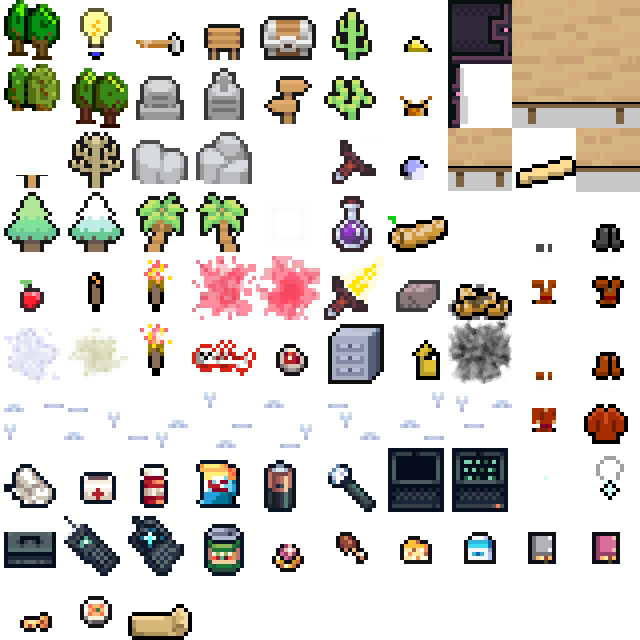
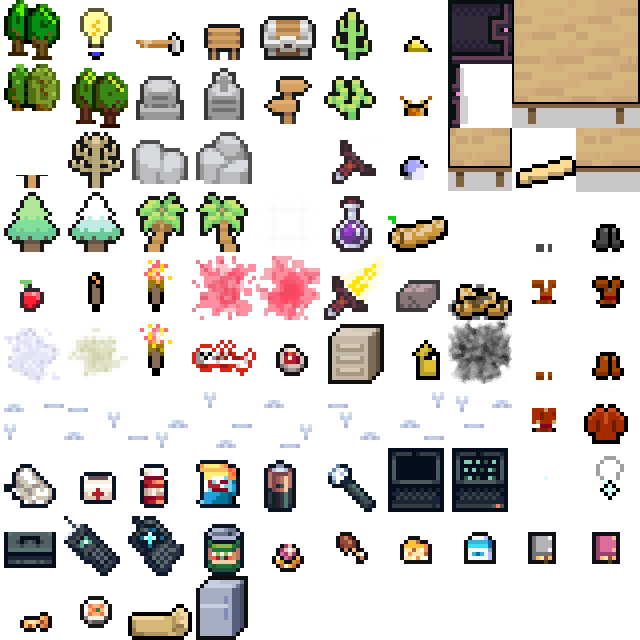
fridge

Changed region(s): [[0.2812, 0.875, 0.4062, 1.0], [0.5, 0.5, 0.5938, 0.5938]]

diff --git a/src/main/kotlin/world/cartos/LevelCarto.kt b/src/main/kotlin/world/cartos/LevelCarto.kt
@@ -5,6 +5,7 @@ import actors.Ratman
 import actors.Ratthing
 import things.CeilingLight
 import things.FilingCabinet
+import things.Fridge
 import util.*
 import world.Building
 import world.Chunk
@@ -40,8 +41,8 @@ class LevelCarto(
                 rooms.add(room)
                 carveRoom(room, nextRegion)
 
-                if (Dice.chance(0.3f)) {
-                    addThing(Dice.range(room.x0, room.x1), Dice.range(room.y0, room.y1), FilingCabinet())
+                if (Dice.chance(0.6f)) {
+                    addThing(Dice.range(room.x0, room.x1), Dice.range(room.y0, room.y1), if (Dice.flip()) FilingCabinet() else Fridge())
                 }
                 if (Dice.chance(0.7f)) {
                     Peeper().spawnAt(level, Dice.range(room.x0, room.x1), Dice.range(room.y0, room.y1))

diff --git a/src/main/kotlin/things/Container.kt b/src/main/kotlin/things/Container.kt
@@ -61,11 +61,19 @@ sealed class Container : Portable(), ThingHolder {
 
 @Serializable
 class FilingCabinet : Container() {
-
     override fun name() = "filing cabinet"
     override fun description() = "You don't know what files are, but you know they went in here."
     override fun glyph() = Glyph.FILING_CABINET
     override fun isPortable() = false
     override fun openVerb() = "open"
+}
 
+@Serializable
+class Fridge : Container() {
+    override fun name() = "fridge"
+    override fun description() = "A box chilled by technology to preserve foods.  Astounding."
+    override fun glyph() = Glyph.FRIDGE
+    override fun isPortable() = false
+    override fun openVerb() = "open"
+    fun isRefrigerating() = true  // TODO: invent electric power
 }

diff --git a/src/main/kotlin/actors/Actor.kt b/src/main/kotlin/actors/Actor.kt
@@ -387,7 +387,7 @@ sealed class Actor : Entity, ThingHolder, LightSource, Temporal {
         if (hp < hpMax) {
             if (!hasStatus(Status.Tag.STARVING)) {
                 if (Dice.chance(0.3f)) {
-                    var healmax = 5 + if (hasStatus(Status.Tag.HUNGRY)) -1 else 0
+                    var healmax = 5 + if (hasStatus(Status.Tag.HUNGRY)) -2 else if (hasStatus(Status.Tag.SATIATED)) 1 else 0
                     healmax += (statuses.firstOrNull { it.tag == Status.Tag.BANDAGED } as Bandaged?)?.quality?.toInt() ?: -3
                     val heal = Dice.range(0, Math.max(1, healmax))
                     healDamage(heal.toFloat())

diff --git a/src/main/kotlin/util/extensions.kt b/src/main/kotlin/util/extensions.kt
@@ -250,7 +250,7 @@ fun wrapText(text: String, width: Int, padding: Int, font: BitmapFont = Screen.s
             word = remaining
             remaining = ""
         }
-        if (word != " ") {
+        if (word != " " && word != "") {
             val wordWidth = GlyphLayout(font, word).width.toInt()
             if (nextLine == "" || wordWidth <= linePixelsLeft) {
                 nextLine += word + " "

diff --git a/src/main/kotlin/things/Consumable.kt b/src/main/kotlin/things/Consumable.kt
@@ -167,6 +167,7 @@ sealed class Rottable : Food(), Temporal {
     }
 
     override fun advanceTime(delta: Float) {
+        if (holder is Fridge && (holder as Fridge).isRefrigerating()) return
         rot += delta
         if (rot > maxRot()) {
             onRot()

diff --git a/src/main/kotlin/render/tilesets/ThingTileSet.kt b/src/main/kotlin/render/tilesets/ThingTileSet.kt
@@ -129,4 +129,5 @@ fun ThingTileSet() =
         setTile(Glyph.KEY, SimpleTile(this, 0, 9))
         setTile(Glyph.STEW, SimpleTile(this, 1, 9))
         setTile(Glyph.BEDROLL, SimpleTile(this, 2, 9))
+        setTile(Glyph.FRIDGE, SimpleTile(this, 3, 9))
     }

diff --git a/src/main/kotlin/render/tilesets/Glyph.kt b/src/main/kotlin/render/tilesets/Glyph.kt
@@ -134,6 +134,7 @@ enum class Glyph {
     KEY,
     STEW,
     BEDROLL,
+    FRIDGE,
 
     BLOODSTAIN,
     SCORCHMARK
